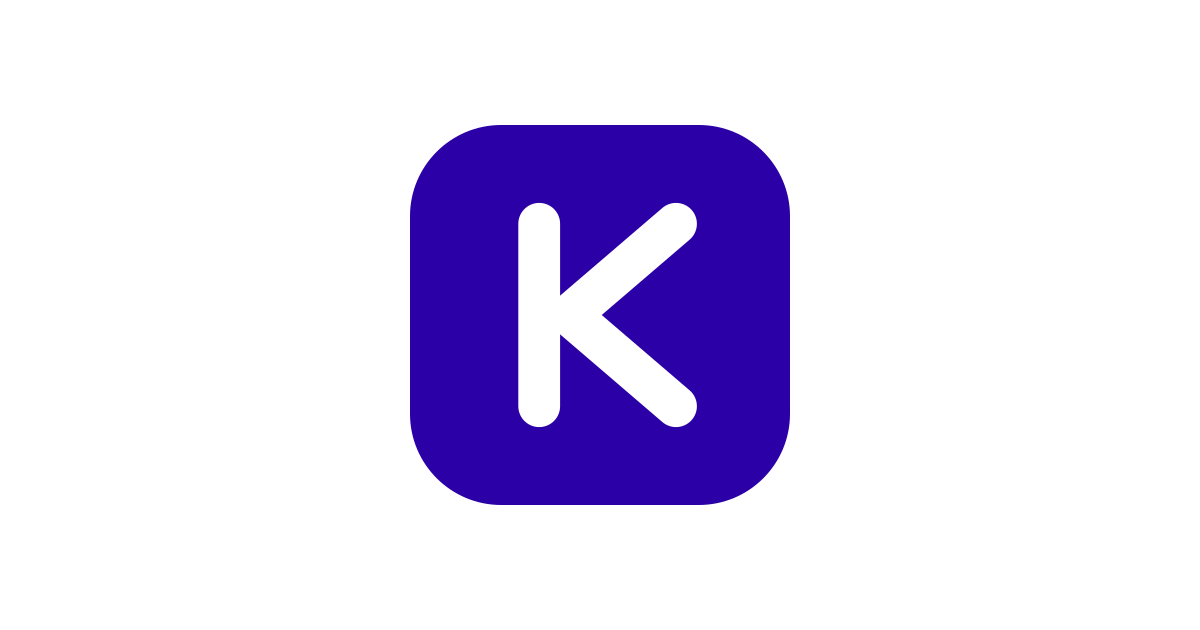
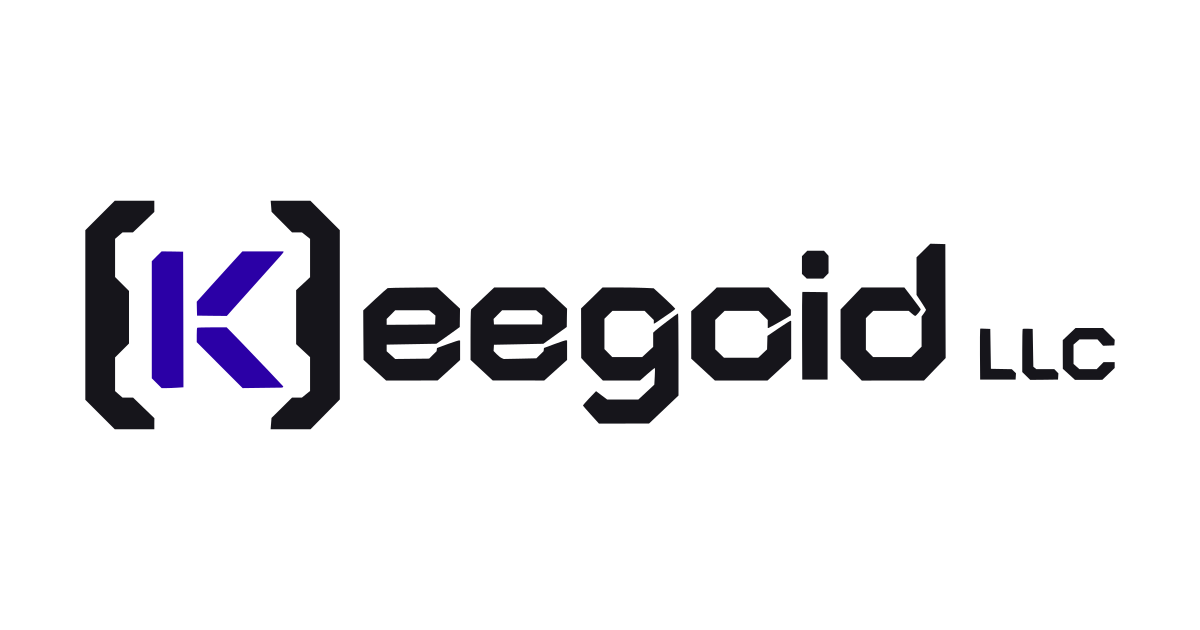
Trace approved Alien Artifact identity

Changed region(s): [[0.0617, 0.181, 0.925, 0.8143]]

diff --git a/layouts/partials/header.html b/layouts/partials/header.html
@@ -1,21 +1,10 @@
 <header class="masthead{{ if not .IsHome }} masthead--compact{{ end }} rise">
   <div class="page">
-    <a class="masthead-lockup" href="{{ .Site.BaseURL }}">
-      <svg class="masthead-mark" viewBox="0 0 100 100" xmlns="http://www.w3.org/2000/svg" aria-hidden="true" focusable="false">
-        <rect class="mark-tile" width="100" height="100" rx="24"/>
-        <g class="mark-k" fill="none" stroke-width="11" stroke-linecap="round" stroke-linejoin="round">
-          <path d="M34 26 V74"/>
-          <path d="M70 26 L42 50 L70 74"/>
-        </g>
-      </svg>
-      {{ if .IsHome }}
-        <h1 class="masthead-title">{{ .Site.Title }}</h1>
-      {{ else }}
-        <p class="masthead-title">{{ .Site.Title }}</p>
-      {{ end }}
+    <a class="masthead-lockup" href="{{ .Site.BaseURL }}" aria-label="Keegoid home">
+      {{ if .IsHome }}<h1 class="masthead-title">{{ else }}<p class="masthead-title">{{ end }}
+        <img class="masthead-logo" src="{{ "images/brand/keegoid-logo.svg" | relURL }}" width="1706" height="441" alt="Keegoid LLC">
+      {{ if .IsHome }}</h1>{{ else }}</p>{{ end }}
     </a>
-    {{ if .IsHome }}
-      <p class="masthead-tagline">{{ .Site.Params.description }}</p>
-    {{ end }}
+    {{ if .IsHome }}<p class="masthead-tagline">{{ .Site.Params.description }}</p>{{ end }}
   </div>
 </header>

diff --git a/assets/css/style.css b/assets/css/style.css
@@ -120,7 +120,7 @@ a:focus-visible {
 .masthead-lockup {
   display: flex;
   align-items: center;
-  gap: 0.85rem;
+  gap: 0.2rem;
   text-decoration: none;
   color: inherit;
   width: fit-content;
@@ -153,6 +153,10 @@ a:focus-visible {
   letter-spacing: -0.02em;
   line-height: 1.1;
 }
+
+.masthead-logo { display:block; width:320px; max-width:100%; height:auto; background:#fff; }
+.masthead--compact .masthead-logo { width:240px; }
+.masthead-lockup { max-width:100%; }
 
 .masthead-tagline {
   margin: 0.85rem 0 0;

diff --git a/static/images/brand/README.md b/static/images/brand/README.md
@@ -1,60 +1,9 @@
-# Keegoid site mark
+# Keegoid — Alien Artifact identity
 
-The **Tile K** is a solid indigo squircle with the K knocked out of it. It was
-chosen over five alternatives because it is the only one that still reads at
-16px, which is where a mark actually lives: favicons, tab strips, bookmarks.
+`keegoid-master.svg` is the canonical full lockup, traced from the approved September 12, 2026 original rather than hand-redrawn. The sibling accounting brand folder retains the original PNG, trace script, and silhouette verification (99.71% overall; 99.92% for d). Production paths require no font, network resource, or generative rebuild.
 
-`keegoid-tile.svg` is the source of truth. Everything else here is derived from
-it, and the masthead inlines the same geometry in
-`layouts/partials/header.html` so it can take its colours from CSS.
+Rebuild from the sibling accounting repository with `./scripts/python brand/build.py`. This creates `keegoid-logo.svg`, PNG lockup, standalone `keegoid-tile.svg`, white-backed square app icon, 64px favicon, 180px Apple touch icon, SVG/ICO favicons, and the opaque 1200 × 630 social card. Legacy tile filenames remain stable for existing references, but contain the new design. The masthead uses the shared full logo instead of separately typeset lettering.
 
-## Files
+Use charcoal #16151B and indigo #2B00A6 on white. Rasterize SVG through librsvg, never ImageMagick's SVG renderer; use ImageMagick only to pack already-rendered PNG into ICO. Check the visual output, especially at small sizes.
 
-- `keegoid-tile.svg` — canonical mark, rounded corners, indigo on transparent.
-- `keegoid-tile-square.svg` — same mark without the corner radius. Source for
-  the iOS icon only; the geometry lives in SVG so it is never retyped in shell.
-- `keegoid-tile-64.png` — 64px PNG icon for browsers without SVG favicon support.
-- `keegoid-touch-icon.png` — 180px iOS home-screen icon. **Square, no rounding,
-  fully opaque**: iOS applies its own corner mask, and any transparency is
-  composited onto black.
-- `keegoid-og-card.png` — 1200x630 social card, mark centred on white. Opaque —
-  transparent PNGs flatten to black on X, Facebook and iMessage.
-- `../../favicon.svg` — favicon. Lifts the tile to `#6D4DF6` under
-  `prefers-color-scheme: dark` so it does not sink into a dark tab strip.
-- `../../favicon.ico` — 48/32/16 fallback.
-
-## Colour
-
-The mark is `#2B00A6`, the same indigo as the site's links — the palette is
-deliberately a single accent. The knocked-out K is the page ground, so in the
-masthead it is `var(--bg)` rather than a hardcoded white.
-
-## Regenerating the rasters
-
-Rasterise with `rsvg-convert` (`brew install librsvg`), never with `magick`
-directly. **`magick tile.svg out.png` renders a blank indigo tile with no K** —
-it uses its internal MSVG coder, which drops stroked paths, and it does this
-even when librsvg is installed, and even via the explicit `magick rsvg:` prefix.
-It exits 0 and writes a plausible file size, so the failure is silent.
-
-```bash
-B=static/images/brand
-rsvg-convert -w 64  -h 64  $B/keegoid-tile.svg        -o $B/keegoid-tile-64.png
-rsvg-convert -w 180 -h 180 $B/keegoid-tile-square.svg -o $B/keegoid-touch-icon.png
-rsvg-convert -w 256 -h 256 $B/keegoid-tile.svg        -o /tmp/tile-256.png
-rsvg-convert -w 380 -h 380 $B/keegoid-tile.svg        -o /tmp/tile-380.png
-
-# magick is still fine for compositing and .ico packing — just not for SVG input
-magick -size 1200x630 xc:'#FFFFFF' /tmp/tile-380.png -gravity center -composite \
-  $B/keegoid-og-card.png
-magick /tmp/tile-256.png -define icon:auto-resize=48,32,16 static/favicon.ico
-```
-
-Open the output and look at it before committing.
-
-## History
-
-The previous **Principal Node K** mark and the Keegoid LLC lockups were removed
-from this repo on 2026-08-09 — the site no longer used them, and they were
-carrying about 1.2 MB. They remain in git history and can be recovered with
-`git show c7352f0:static/images/brand/<file>`.
+The earlier Tile K design is retained in git history. No trademark-clearance claim is made.
